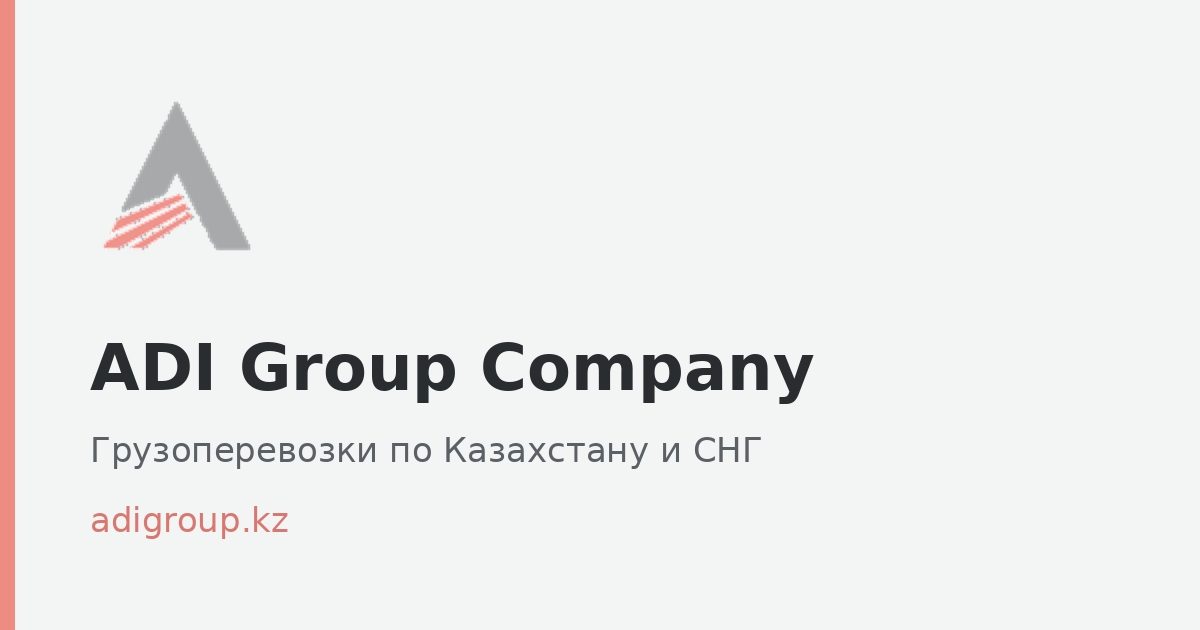
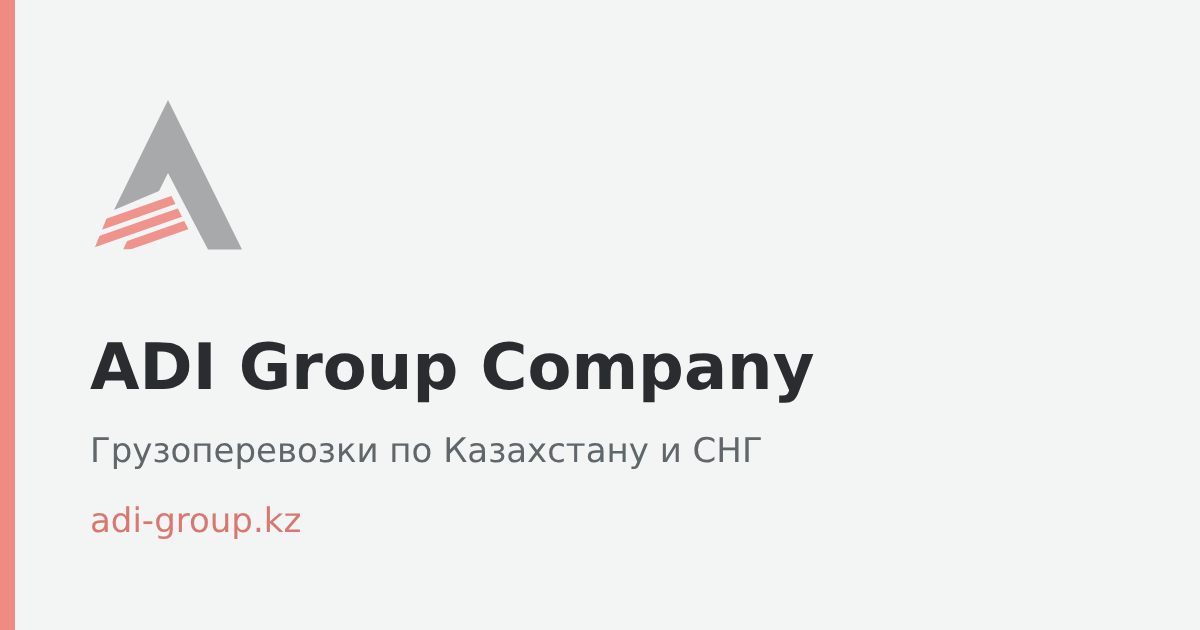
Add files via upload

diff --git a/index.html b/index.html
@@ -4,22 +4,23 @@
 <meta charset="utf-8">
 <meta name="viewport" content="width=device-width, initial-scale=1">
 <meta name="theme-color" content="#ffffff">
+<link rel="icon" type="image/svg+xml" href="adi-logo.svg">
 <link rel="icon" type="image/png" sizes="32x32" href="favicon-32.png">
 <link rel="icon" type="image/png" sizes="192x192" href="favicon-192.png">
 <link rel="apple-touch-icon" sizes="180x180" href="apple-touch-icon.png">
 <meta name="description" content="ADI Group Company — автомобильные и железнодорожные перевозки, складские услуги для бизнеса по Казахстану и СНГ. Тентованные фуры, рефрижераторы, негабарит, сборные грузы. Расчёт стоимости онлайн.">
 <title>ADI Group Company — грузоперевозки по Казахстану и СНГ | Павлодар</title>
-<link rel="canonical" href="https://adigroup.kz/">
-<meta property="og:type" content="website"><meta property="og:site_name" content="ADI Group Company"><meta property="og:locale" content="ru_RU"><meta property="og:url" content="https://adigroup.kz/"><meta property="og:title" content="ADI Group Company — грузоперевозки по Казахстану и СНГ"><meta property="og:description" content="Автомобильные и ЖД перевозки, складские услуги. Рассчитайте стоимость онлайн."><meta property="og:image" content="https://adigroup.kz/og-image.png">
-<meta name="twitter:card" content="summary_large_image"><meta name="twitter:title" content="ADI Group Company — грузоперевозки"><meta name="twitter:image" content="https://adigroup.kz/og-image.png">
-<script type="application/ld+json">{"@context":"https://schema.org","@graph":[{"@type":"Organization","@id":"https://adigroup.kz/#org","name":"ADI Group Company","legalName":"ТОО «ADI Group Company»","url":"https://adigroup.kz/","logo":"https://adigroup.kz/adi-logo.png","email":"info@adigroup.kz","telephone":"+77028553327","taxID":"170940003684","address":{"@type":"PostalAddress","streetAddress":"ул. Торговая 11/6, офис 15","addressLocality":"Павлодар","addressCountry":"KZ"},"contactPoint":{"@type":"ContactPoint","telephone":"+77028553327","contactType":"sales","availableLanguage":["ru","kk","en"]}},{"@type":"LogisticsService","name":"Автомобильные и железнодорожные перевозки, складские услуги","serviceType":"Road freight, rail freight, warehousing","provider":{"@id":"https://adigroup.kz/#org"},"areaServed":["KZ","RU","CN","UZ"],"url":"https://adigroup.kz/#services"}]}</script>
+<link rel="canonical" href="https://adi-group.kz/">
+<meta property="og:type" content="website"><meta property="og:site_name" content="ADI Group Company"><meta property="og:locale" content="ru_RU"><meta property="og:url" content="https://adi-group.kz/"><meta property="og:title" content="ADI Group Company — грузоперевозки по Казахстану и СНГ"><meta property="og:description" content="Автомобильные и ЖД перевозки, складские услуги. Рассчитайте стоимость онлайн."><meta property="og:image" content="https://adi-group.kz/og-image.png">
+<meta name="twitter:card" content="summary_large_image"><meta name="twitter:title" content="ADI Group Company — грузоперевозки"><meta name="twitter:image" content="https://adi-group.kz/og-image.png">
+<script type="application/ld+json">{"@context":"https://schema.org","@graph":[{"@type":"Organization","@id":"https://adi-group.kz/#org","name":"ADI Group Company","legalName":"ТОО «ADI Group Company»","url":"https://adi-group.kz/","logo":"https://adi-group.kz/adi-logo.png","email":"info@adigroup.kz","telephone":"+77028553327","taxID":"170940003684","address":{"@type":"PostalAddress","streetAddress":"ул. Торговая 11/6, офис 15","addressLocality":"Павлодар","addressCountry":"KZ"},"contactPoint":{"@type":"ContactPoint","telephone":"+77028553327","contactType":"sales","availableLanguage":["ru","kk","en"]}},{"@type":"LogisticsService","name":"Автомобильные и железнодорожные перевозки, складские услуги","serviceType":"Road freight, rail freight, warehousing","provider":{"@id":"https://adi-group.kz/#org"},"areaServed":["KZ","RU","CN","UZ"],"url":"https://adi-group.kz/#services"}]}</script>
 <link rel="preconnect" href="https://fonts.googleapis.com"><link rel="stylesheet" href="https://fonts.googleapis.com/css2?family=Inter:wght@400;500;600&family=Montserrat:wght@600;700;800&display=swap">
-<link rel="stylesheet" href="styles.css?v=95">
+<link rel="stylesheet" href="styles.css?v=97">
 </head>
 <body>
 <header class="header">
   <a class="brand" href="#top" aria-label="ADI Group Company">
-    <img src="adi-logo.png" alt="ADI Group Company" onerror="this.style.display='none'">
+    <img src="adi-logo.svg" alt="ADI Group Company" width="68" height="70" onerror="this.style.display='none'">
     <span class="brand-fallback"><b><i>ADI</i> Group</b></span>
   </a>
   <nav class="nav" id="nav">
@@ -28,11 +29,12 @@
     <a href="#geography" data-i18n="navGeo">География</a>
     <a href="#faq" data-i18n="navFaq">FAQ</a>
     <a href="#contacts" data-i18n="navContacts">Контакты</a>
+    <a href="#request" class="nav-cta" data-i18n="request">Оставить заявку</a>
   </nav>
   <div class="header-actions">
     <div class="lang-switch" aria-label="Язык"><button class="lang active" data-lang="ru">RU</button><span>|</span><button class="lang" data-lang="kk">KZ</button><span>|</span><button class="lang" data-lang="en">EN</button></div>
     <a class="button button-small button-cta" href="#request" data-i18n="request">Оставить заявку</a>
-    <button class="menu-toggle" id="menuToggle" aria-label="Открыть меню">☰</button>
+    <button class="menu-toggle" id="menuToggle" aria-label="Открыть меню" aria-expanded="false" aria-controls="nav">☰</button>
   </div>
 </header>
 
@@ -53,7 +55,7 @@
     <div class="orbit orbit-one"></div><div class="orbit orbit-two"></div>
     <div class="route-label label-a"><span class="dot"></span> KZ <small data-i18n="routeLocal">Казахстан</small></div>
     <div class="route-label label-b"><span class="dot lime"></span><span data-i18n="routeIntl">Международные направления</span></div>
-    <img src="hero-truck.jpg?v=95" alt="" hidden onload="document.querySelector('.hero').classList.add('has-photo')">
+    <img src="hero-truck.jpg?v=97" alt="" hidden onload="document.querySelector('.hero').classList.add('has-photo')">
     <svg class="truck" viewBox="0 0 660 360" role="img" aria-label="Грузовой автомобиль">
       <defs><linearGradient id="cab" x1="0" y1="0" x2="1" y2="1"><stop stop-color="#f7f9fa"/><stop offset="1" stop-color="#9ea8ad"/></linearGradient><linearGradient id="trailer" x1="0" y1="0" x2="0" y2="1"><stop stop-color="#e9eef0"/><stop offset="1" stop-color="#8a969c"/></linearGradient></defs>
       <ellipse cx="333" cy="310" rx="280" ry="22" fill="#000" opacity=".35"/>
@@ -145,7 +147,7 @@
 </section>
 
 <section class="request section" id="request">
-  <div class="request-copy"><div class="section-kicker"><span>05</span><span data-i18n="requestKicker">ОБСУДИМ ВАШ ГРУЗ</span></div><h2 data-i18n="requestTitle">Есть задача<br>по перевозке?<br><em>Давайте обсудим.</em></h2><p data-i18n="requestText">Оставьте контактные данные и кратко опишите запрос. Свяжитесь с ADI Group удобным способом.</p><div class="quick-links"><a href="https://wa.me/77028553327" target="_blank" rel="noopener">◉ WhatsApp ↗</a><a href="tel:+77028553327">⌕ +7 702 855 3327</a><a href="mailto:info@adigroup.kz">✉ info@adigroup.kz</a></div></div>
+  <div class="request-copy"><div class="section-kicker"><span>06</span><span data-i18n="requestKicker">ОБСУДИМ ВАШ ГРУЗ</span></div><h2 data-i18n="requestTitle">Есть задача<br>по перевозке?<br><em>Давайте обсудим.</em></h2><p data-i18n="requestText">Оставьте контактные данные и кратко опишите запрос. Свяжитесь с ADI Group удобным способом.</p><div class="quick-links"><a href="https://wa.me/77028553327" target="_blank" rel="noopener">◉ WhatsApp ↗</a><a href="tel:+77028553327">⌕ +7 702 855 3327</a><a href="mailto:info@adigroup.kz">✉ info@adigroup.kz</a></div></div>
   <form class="request-form" id="leadForm" novalidate>
     <label><span data-i18n="formName">Ваше имя</span><input name="name" required autocomplete="name"></label>
     <label><span data-i18n="fPhone">Телефон / WhatsApp</span><input name="phone" type="tel" required placeholder="+7 ..." autocomplete="tel"></label>
@@ -175,5 +177,5 @@
   <div class="footer-top"><div class="footer-brand"><div class="footer-mark">ADI<span>↗</span></div><p data-i18n="footerDesc">Автомобильные грузоперевозки<br>для корпоративных клиентов.</p></div><div class="footer-contact"><span class="footer-label" data-i18n="footerContact">КОНТАКТЫ</span><a href="tel:+77028553327">+7 702 855 3327</a><a href="mailto:info@adigroup.kz">info@adigroup.kz</a><a href="https://wa.me/77028553327" target="_blank" rel="noopener">WhatsApp ↗</a></div><div class="footer-address"><span class="footer-label" data-i18n="footerAddress">АДРЕС</span><p data-i18n="address">Республика Казахстан,<br>г. Павлодар, ул. Торговая 11/6,<br>офис 15</p></div><div class="footer-nav"><span class="footer-label" data-i18n="footerMenu">НАВИГАЦИЯ</span><a href="#about" data-i18n="navAbout">О компании</a><a href="#services" data-i18n="navServices">Услуги</a><a href="#geography" data-i18n="navGeo">География</a><a href="#faq">FAQ</a></div></div>
   <div class="footer-bottom"><span>© <span id="year"></span> ADI Group Company</span><span data-i18n="footerLegal">ТОО «ADI Group Company» · БИН 170940003684</span><a href="#top" data-i18n="backTop">Наверх ↑</a></div>
 </footer>
-<script src="script.js?v=95"></script>
+<script src="script.js?v=97"></script>
 </body></html>

diff --git a/styles.css b/styles.css
@@ -1,4 +1,3 @@
-@import url('https://fonts.googleapis.com/css2?family=Manrope:wght@400;500;600;700;800&display=swap');
 :root{--bg:#f5f5f4;--panel:#fff;--text:#292d30;--muted:#74797c;--lime:#ef8c82;--line:rgba(45,49,52,.14);--coral:#ef8c82;--brand-gray:#a7a9ab}
 *{box-sizing:border-box}html{scroll-behavior:smooth;scroll-padding-top:82px}body{margin:0;background:#f5f5f4;color:#292d30;font-family:Manrope,Arial,sans-serif}a{color:inherit;text-decoration:none}
 .header{height:80px;background:#fff;color:#303437;display:flex;align-items:center;justify-content:space-between;padding:0 clamp(20px,5.5vw,86px);position:sticky;top:0;z-index:20;border-bottom:1px solid #e8e9e8}
@@ -72,7 +71,7 @@ body{font-size:15px}
 .cargo{display:grid;grid-template-columns:repeat(4,1fr);gap:14px;margin-top:14px}.cargo article{background:#fff;border:1px solid #e2e4e4;border-top:3px solid #ef8c82;padding:24px}.cargo b{font-size:17px;letter-spacing:-.3px}.cargo p{font-size:14px;line-height:1.75;color:#687074;margin:12px 0 0}
 .stats{display:grid;grid-template-columns:repeat(4,1fr);margin-top:44px;border:1px solid #dfe2e2}.stats>div{padding:26px 22px;border-right:1px solid #dfe2e2;display:flex;flex-direction:column;gap:10px}.stats>div:last-child{border:0}.stats b{font-size:18px;line-height:1.3;letter-spacing:-.4px}.stats span{font-size:13px;line-height:1.7;color:#74797c}
 .imap{height:auto;background:#e9ebeb;padding:14px}.imap svg{width:100%;display:block}.kz{fill:#fff;stroke:#b7bbbd;stroke-width:1.5}.routes path{fill:none;stroke:#ef8c82;stroke-width:1.6;stroke-dasharray:5 7;animation:dash 24s linear infinite}@keyframes dash{to{stroke-dashoffset:-240}}
-.node{cursor:pointer}.node circle{fill:#d97870;stroke:#fff;stroke-width:3;transition:r .2s}.node.intl circle{fill:#303639}.node text{font:700 13px Manrope,Arial,sans-serif;fill:#303639;paint-order:stroke;stroke:#fff;stroke-width:4px}.node:hover circle,.node:focus-visible circle,.node.on circle{r:11}.node.hub circle{r:10}.node:focus-visible{outline:none}
+.node{cursor:pointer}.node circle{fill:#d97870;stroke:#fff;stroke-width:3;transition:r .2s}.node.intl circle{fill:#303639}.node text{font:700 13px Inter,Arial,sans-serif;fill:#303639;paint-order:stroke;stroke:#fff;stroke-width:4px}.node:hover circle,.node:focus-visible circle,.node.on circle{r:11}.node.hub circle{r:10}.node:focus-visible{outline:none}
 .map-info{background:#fff;padding:16px 18px;font-size:14px;line-height:1.7;color:#4d5559;margin-top:10px;display:flex;justify-content:space-between;align-items:center;gap:14px;flex-wrap:wrap}.map-info .button{padding:11px 14px}
 .faq{background:#fff}.faq-list{margin-top:36px;max-width:860px;border-top:1px solid #dfe2e2}.faq details{border-bottom:1px solid #dfe2e2}.faq summary{cursor:pointer;list-style:none;padding:22px 40px 22px 0;font-weight:800;font-size:17px;position:relative}.faq summary::-webkit-details-marker{display:none}.faq summary::after{content:"+";position:absolute;right:6px;top:18px;font-size:26px;color:#d97870;transition:transform .2s}.faq details[open] summary::after{transform:rotate(45deg)}.faq details p{margin:0 0 22px;font-size:15px;line-height:1.85;color:#687074;max-width:700px}
 .two{display:grid;grid-template-columns:1fr 1fr;gap:18px}.consent{display:flex!important;gap:10px;align-items:flex-start}.consent input{width:18px;height:18px;margin-top:2px;accent-color:#d97870}.consent>span{font-size:12px!important;font-weight:500!important;line-height:1.6;margin:0!important}.consent a{border-bottom:1px solid #ef8c82}.hp{position:absolute;left:-9999px}.form-status.ok{color:#2f7a4d}
@@ -96,10 +95,30 @@ body{font-family:Inter,Manrope,Arial,sans-serif}h1,h2,h3,.stats b,.cargo b,.faq 
 @media(max-width:680px){.benefits .stats>div,.benefits .stats>div+div{padding:22px 0;border-left:0}.hero{background-position:70% center}}
 
 /* v9.1 — позиция фото: фура правее и выше */
-.hero::before{content:"";position:absolute;z-index:0;right:0;top:-16%;width:68%;height:118%;background:linear-gradient(90deg,rgba(18,22,25,.45),transparent 55%),url(hero-truck.jpg?v=95) 50% 50%/cover no-repeat;-webkit-mask-image:linear-gradient(90deg,transparent 0,#000 38%);mask-image:linear-gradient(90deg,transparent 0,#000 38%)}
+.hero::before{content:"";position:absolute;z-index:0;right:0;top:-16%;width:68%;height:118%;background:linear-gradient(90deg,rgba(18,22,25,.45),transparent 55%),url(hero-truck.jpg?v=97) 50% 50%/cover no-repeat;-webkit-mask-image:linear-gradient(90deg,transparent 0,#000 38%);mask-image:linear-gradient(90deg,transparent 0,#000 38%)}
 @media(max-width:900px){.hero::before{width:80%}}
 @media(max-width:680px){.hero::before{width:100%;height:46%;top:auto;bottom:48px;background-position:60% 50%;-webkit-mask-image:linear-gradient(180deg,transparent 0,#000 35%);mask-image:linear-gradient(180deg,transparent 0,#000 35%)}}
 /* услуги: авто / ЖД / склад */
 .svc-grid{display:grid;grid-template-columns:repeat(3,1fr);gap:14px;margin-top:40px}.svc{position:relative;background:#fff;border:1px solid #e2e4e4;border-top:3px solid #ef8c82;padding:30px 28px 86px;min-height:300px}.svc h3{font-size:24px;line-height:1.2;letter-spacing:-.6px;margin:22px 0 14px}.svc p{font-size:15px;line-height:1.8;color:#687074;margin:0}.svc .round-arrow{position:absolute;left:28px;bottom:26px}.cargo-head{margin:46px 0 0;font-size:20px}
 select{width:100%;padding:14px 12px;font:inherit;border:1px solid #d8dcdc;background:#fff}
 @media(max-width:900px){.svc-grid{grid-template-columns:1fr}.svc{min-height:0}}
+
+/* v9.2 — мобильная адаптация */
+.consent>span span{display:inline!important;margin:0!important;font-size:inherit!important;font-weight:inherit!important}
+.nav-cta{display:none}
+@media(max-width:680px){
+  h2{letter-spacing:-1.2px}
+  .hero h1{letter-spacing:-1.5px}
+  .quick input,.request-form input,.request-form textarea,.request-form select{font-size:16px}
+  .lang{padding:8px 4px;min-height:36px}
+  .menu-toggle{padding:6px 2px;cursor:pointer}
+  .nav a{padding:12px 0;font-size:16px}
+  .nav .nav-cta{display:block;margin-top:8px;padding:14px 16px;text-align:center;background:#292d30;color:#fff;border-radius:3px;font-weight:800}
+  .nav .nav-cta::after{display:none}
+  .imap{padding:8px}
+  .node text{font-size:24px;stroke-width:6px}
+  .node circle{r:10}.node.hub circle{r:13}.node:hover circle,.node:focus-visible circle,.node.on circle{r:14}
+  .map-info{font-size:14px;padding:14px}
+  .map-info .button{width:100%}
+  .service-foot{gap:12px}
+}

diff --git a/script.js b/script.js
@@ -47,14 +47,18 @@ document.querySelectorAll("[data-i18n-ph]").forEach(el=>el.placeholder=tr(el.dat
 document.querySelectorAll(".request-form [data-i18n=formName]").forEach(()=>{});renderMap();}
 document.querySelectorAll(".lang").forEach(b=>b.addEventListener("click",()=>setLang(b.dataset.lang)));
 // ---- menu, year
-document.getElementById("menuToggle").addEventListener("click",()=>document.getElementById("nav").classList.toggle("open"));
-document.querySelectorAll(".nav a").forEach(a=>a.addEventListener("click",()=>document.getElementById("nav").classList.remove("open")));
+const navEl=document.getElementById("nav"),menuBtn=document.getElementById("menuToggle");
+const setMenu=o=>{navEl.classList.toggle("open",o);menuBtn.setAttribute("aria-expanded",o);menuBtn.textContent=o?"✕":"☰"};
+menuBtn.addEventListener("click",e=>{e.stopPropagation();setMenu(!navEl.classList.contains("open"))});
+navEl.querySelectorAll("a").forEach(a=>a.addEventListener("click",()=>setMenu(false)));
+document.addEventListener("click",e=>{if(navEl.classList.contains("open")&&!navEl.contains(e.target))setMenu(false)});
+document.addEventListener("keydown",e=>{if(e.key==="Escape")setMenu(false)});
 document.getElementById("year").textContent=new Date().getFullYear();
 // ---- map
-const P=[448,81];const nodes=[{id:"cPvl",x:448,y:81,hub:1},{id:"cAst",x:370,y:106},{id:"cAla",x:447,y:282},{id:"cShy",x:344,y:301},{id:"cRu",x:532,y:30,intl:1},{id:"cCn",x:590,y:262,intl:1},{id:"cUz",x:300,y:330,intl:1}];
+const P=[448,81];const nodes=[{id:"cPvl",x:448,y:81,hub:1},{id:"cAst",x:370,y:106},{id:"cAla",x:447,y:282},{id:"cShy",x:344,y:301,left:1},{id:"cRu",x:532,y:30,intl:1},{id:"cCn",x:590,y:262,intl:1,left:1},{id:"cUz",x:300,y:330,intl:1}];
 function renderMap(){const svg=document.getElementById("kzmap");if(!svg)return;
 svg.querySelector(".routes").innerHTML=nodes.filter(n=>!n.hub).map(n=>`<path d="M${P[0]} ${P[1]} Q${(P[0]+n.x)/2+30} ${(P[1]+n.y)/2-30} ${n.x} ${n.y}"/>`).join("");
-svg.querySelector(".nodes").innerHTML=nodes.map(n=>`<g class="node${n.intl?" intl":""}${n.hub?" hub":""}" tabindex="0" role="button" data-id="${n.id}"><circle cx="${n.x}" cy="${n.y}" r="7"/><text x="${n.x+13}" y="${n.y+4}">${tr(n.id)}</text></g>`).join("");
+svg.querySelector(".nodes").innerHTML=nodes.map(n=>`<g class="node${n.intl?" intl":""}${n.hub?" hub":""}" tabindex="0" role="button" data-id="${n.id}"><circle cx="${n.x}" cy="${n.y}" r="7"/><text x="${n.left?n.x-13:n.x+13}" y="${n.y+4}"${n.left?' text-anchor="end"':""}>${tr(n.id)}</text></g>`).join("");
 svg.querySelectorAll(".node").forEach(g=>{const f=()=>pick(g.dataset.id);g.addEventListener("click",f);g.addEventListener("keydown",e=>{if(e.key==="Enter"||e.key===" "){e.preventDefault();f()}})});
 if(window._sel)pick(window._sel);else document.getElementById("mapInfo").textContent=tr("mapHint");}
 function pick(id){window._sel=id;document.querySelectorAll(".node").forEach(g=>g.classList.toggle("on",g.dataset.id===id));const n=nodes.find(x=>x.id===id);const info=document.getElementById("mapInfo");
@@ -69,7 +73,8 @@ if(f.website.value)return;if(!f.consent.checked){st.textContent=tr("fConsentErr"
 if(!f.checkValidity()){f.reportValidity();return}
 const d=Object.fromEntries(new FormData(f));delete d.website;const btn=f.querySelector("button");btn.disabled=true;
 if(FORM_ENDPOINT){try{const r=await fetch(FORM_ENDPOINT,{method:"POST",headers:{"Content-Type":"application/json",Accept:"application/json"},body:JSON.stringify({...d,lang:currentLang,page:location.href})});if(!r.ok)throw 0;st.textContent=tr("fOk");st.classList.add("ok");f.reset()}catch(_){st.textContent=tr("fErr")}btn.disabled=false;return}
-const body=`Услуга: ${d.service}\nИмя: ${d.name}\nТелефон/WhatsApp: ${d.phone}\nОткуда: ${d.from}\nКуда: ${d.to}\nГруз: ${d.cargo}\nКомментарий: ${d.message}`;
+const svcName=f.service.options[f.service.selectedIndex].text;
+const body=`Услуга: ${svcName}\nИмя: ${d.name}\nТелефон/WhatsApp: ${d.phone}\nОткуда: ${d.from}\nКуда: ${d.to}\nГруз: ${d.cargo}\nКомментарий: ${d.message}`;
 st.textContent=tr("fMail");btn.disabled=false;location.href="mailto:info@adigroup.kz?subject="+encodeURIComponent("Заявка на перевозку — ADI Group")+"&body="+encodeURIComponent(body)});
 let saved=null;try{saved=new URLSearchParams(location.search).get("lang")||localStorage.getItem("lang")}catch(e){}
 setLang(saved||"ru");
